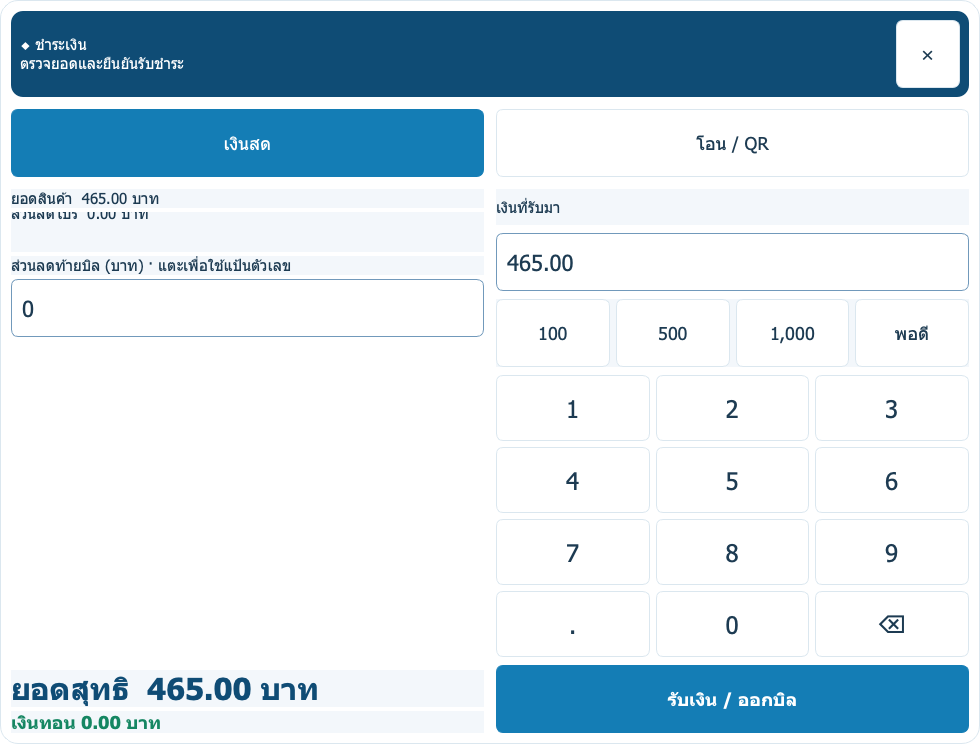
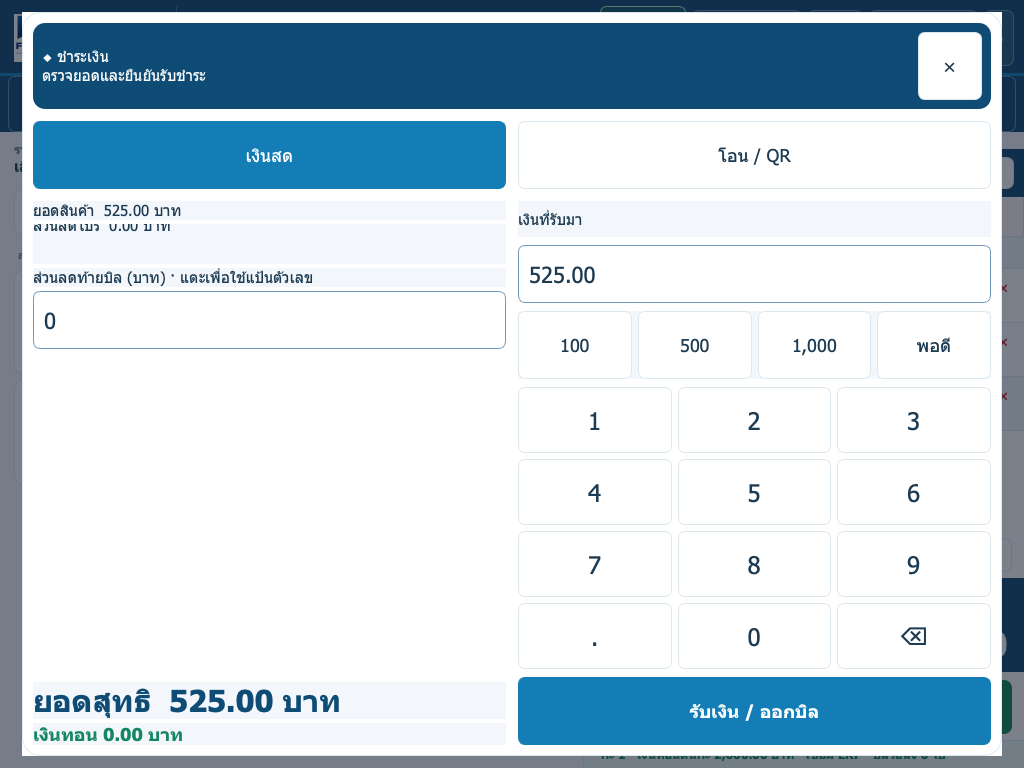
Fix product card height, payment dialog label styles, and retake distinct screenshots

diff --git a/apps/pos-python/pos_python/ui.py b/apps/pos-python/pos_python/ui.py
@@ -357,7 +357,7 @@ QLineEdit:focus, QComboBox:focus { border-color: $primary; }
    เพื่อเก็บพื้นที่ไว้ให้รายการสินค้าและบิล ไม่เปลี่ยนขนาดตัวเลขทางธุรกิจ */
 QMainWindow[compact="true"] #brandName { font-size: 16px; padding: 8px 0; }
 QMainWindow[compact="true"] #brandRight { font-size: 13px; }
-QMainWindow[compact="true"] QPushButton { padding: $compact_button_padding 10px; font-size: 16px; min-height: 48px; }
+QMainWindow[compact="true"] QPushButton { padding: $compact_button_padding 10px; font-size: 16px; }
 QMainWindow[compact="true"] QPushButton#payBtn { font-size: 20px; padding: $pay_padding 12px; min-height: 58px; }
 QMainWindow[compact="true"] QLineEdit, QComboBox { padding: 6px 10px; font-size: 16px; }
 QMainWindow[compact="true"] QToolButton#tile { padding: $tile_padding; font-size: $tile_font; }
@@ -872,7 +872,7 @@ def run_ui(service: PosService, online=None, data_dir=None, app=None):
             self.setWindowFlag(Qt.WindowCloseButtonHint, True)
             self.setMinimumSize(940, 660)
             self.resize(980, 744)
-            self.setStyleSheet(self.styleSheet() + f"QLabel {{ font-size:16px; padding:0px; }} QPushButton {{ min-height:56px; font-size:18px; }} QLineEdit {{ min-height:48px; font-size:22px; font-weight:700; }}")
+            self.setStyleSheet(self.styleSheet() + f"QLabel {{ font-size:16px; background:transparent; }} QPushButton {{ min-height:56px; font-size:18px; }} QLineEdit {{ min-height:48px; font-size:22px; font-weight:700; }}")
             outer = QHBoxLayout()
             outer.setSpacing(14)
             self.body.addLayout(outer)
@@ -886,15 +886,20 @@ def run_ui(service: PosService, online=None, data_dir=None, app=None):
             layout.setSpacing(8)
             outer.addLayout(layout, 1)
             subtotal_label = QLabel(f"ยอดสินค้า  {order.subtotal():,.2f} บาท")
-            subtotal_label.setStyleSheet(f"font-size:18px;font-weight:800;color:{PALETTE['text']};")
+            subtotal_label.setStyleSheet(f"background:transparent;font-size:18px;font-weight:800;color:{PALETTE['text']};")
             summary.addWidget(subtotal_label)
             self.promo_summary = QLabel()
             self.promo_summary.setObjectName("note")
             self.promo_summary.setWordWrap(True)
-            self.promo_summary.setMaximumHeight(48)
+            self.promo_summary.setAlignment(Qt.AlignLeft | Qt.AlignVCenter)
+            self.promo_summary.setMinimumHeight(44)
+            self.promo_summary.setStyleSheet(
+                f"background:{PALETTE['warning_soft']};color:{PALETTE['warning_ink']};"
+                f"border-left:4px solid {PALETTE['warning']};border-radius:6px;padding:8px 12px;font-size:15px;font-weight:700;"
+            )
             summary.addWidget(self.promo_summary)
             disc_label = QLabel("ส่วนลดท้ายบิล (บาท) · แตะเพื่อใช้แป้นตัวเลข")
-            disc_label.setStyleSheet(f"font-size:15px;font-weight:700;color:{PALETTE['muted']};")
+            disc_label.setStyleSheet(f"background:transparent;font-size:15px;font-weight:700;color:{PALETTE['muted']};")
             summary.addWidget(disc_label)
             self.bill_discount = QLineEdit(str(order.bill_discount))
             self.bill_discount.setObjectName("billDiscount")
@@ -910,7 +915,7 @@ def run_ui(service: PosService, online=None, data_dir=None, app=None):
             due_layout.setContentsMargins(14, 10, 14, 10)
             self.due = QLabel(f"ยอดชำระ {order.grand_total():,.2f} บาท")
             self.due.setObjectName("totalPayableAmount")
-            self.due.setStyleSheet(f"font-size:32px;font-weight:900;color:{PALETTE['payable_mint']};")
+            self.due.setStyleSheet(f"background:transparent;font-size:32px;font-weight:900;color:{PALETTE['payable_mint']};")
             due_layout.addWidget(self.due)
             summary.addWidget(due_box)
 
@@ -991,7 +996,7 @@ def run_ui(service: PosService, online=None, data_dir=None, app=None):
             change_layout = QVBoxLayout(change_box)
             change_layout.setContentsMargins(12, 8, 12, 8)
             self.change = QLabel()
-            self.change.setStyleSheet("font-size:24px;font-weight:800;color:%s;" % PALETTE["success_dark"])
+            self.change.setStyleSheet("background:transparent;font-size:24px;font-weight:800;color:%s;" % PALETTE["success_dark"])
             change_layout.addWidget(self.change)
             summary.addWidget(change_box)
 
@@ -1045,9 +1050,14 @@ def run_ui(service: PosService, online=None, data_dir=None, app=None):
             gift_names = {p.name or p.promo_type for p in self.order.promotions if p.promo_type in ("free_item", "bill_free_item")}
             names = [f"{name}  −{money(amount):,.2f}" for name, amount in self.order.pricing()[5] if name not in gift_names]
             gifts = [f"แถม {line.name} × {line.qty}  ฿0" for line in self.order.free_items()]
-            self.promo_summary.setText(f"ส่วนลดโปร  {self.order.promotion_total():,.2f} บาท\n" + " · ".join(names) + "\n" + "\n".join(gifts))
+            promo_lines = [f"ส่วนลดโปร  {self.order.promotion_total():,.2f} บาท"]
+            if names:
+                promo_lines.append(" · ".join(names))
+            if gifts:
+                promo_lines.extend(gifts)
+            self.promo_summary.setText("\n".join(promo_lines))
             self.due.setText(f"ยอดสุทธิ  {self.order.grand_total():,.2f} บาท")
-            self.due.setStyleSheet(f"font-size:32px;font-weight:900;color:{PALETTE['payable_mint']};")
+            self.due.setStyleSheet(f"background:transparent;font-size:32px;font-weight:900;color:{PALETTE['payable_mint']};")
 
         def discount_changed(self):
             try:
@@ -1071,7 +1081,8 @@ def run_ui(service: PosService, online=None, data_dir=None, app=None):
 
         def set_payment_method(self, method: str) -> None:
             self.payment_method = method
-            self.method_buttons[method].setChecked(True)
+            if method in self.method_buttons:
+                self.method_buttons[method].setChecked(True)
             transfer = method == "transfer"
             cash = method == "cash"
             self.cash_label.setText("เงินที่รับมา")
@@ -2576,7 +2587,7 @@ def run_ui(service: PosService, online=None, data_dir=None, app=None):
             # them to fill the viewport made the product buttons dominate the
             # screen and left too little room for the customer-facing bill.
             # Extra products remain available by scrolling inside this panel.
-            row_height = max(96, layout_metrics["card"])
+            row_height = max(116, layout_metrics["card"])
             term = self.scan.text().strip()
             # ค้นได้ทั้งชื่อ รหัส และบาร์โค้ด ตัวเลขสั้นยังไม่กรอง กันตารางกระพริบระหว่างเริ่มยิงสแกน
             search = "" if term.isdigit() and len(term) < 4 else term

diff --git a/apps/pos-python/pos_python/touch_dialogs.py b/apps/pos-python/pos_python/touch_dialogs.py
@@ -18,7 +18,7 @@ class TouchDialog(QDialog):
         self.setWindowTitle(title)
         self.setMinimumWidth(480)
         self.setStyleSheet(f'''QDialog {{ background:{p['surface']}; border:1px solid {p['border']}; border-radius:16px; }}
-            QLabel {{ font-size:16px; color:{p['text']}; }} QLineEdit {{ min-height:44px; font-size:24px; }}
+            QLabel {{ font-size:16px; color:{p['text']}; background:transparent; }} QLineEdit {{ min-height:44px; font-size:24px; }}
             QPushButton {{ min-height:56px; font-size:18px; font-weight:700; border-radius:10px; }}
             QPushButton#primary, QPushButton#btnTouchPrimary {{ background:{p['primary']}; color:{p['surface']}; border:1px solid {p['primary']}; font-weight:800; }}
             QPushButton#btnCheckoutPrimary {{ background:{p['success']}; color:{p['surface']}; border:1px solid {p['success']}; font-weight:800; }}
